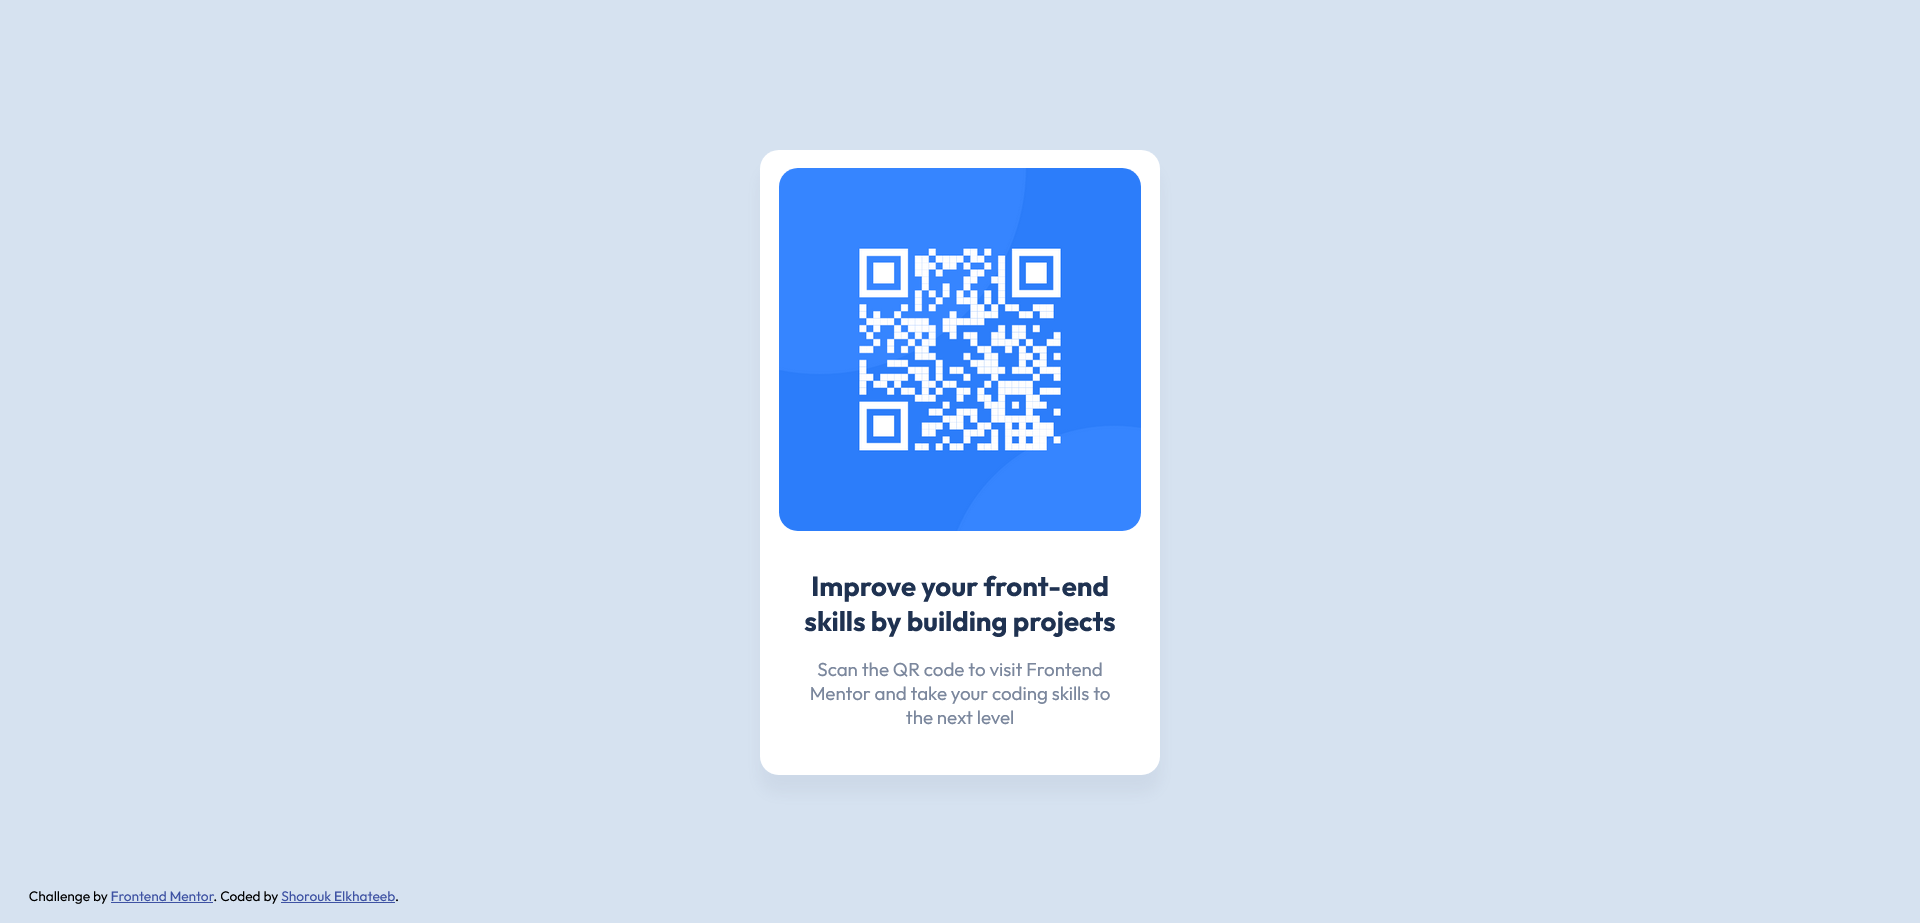
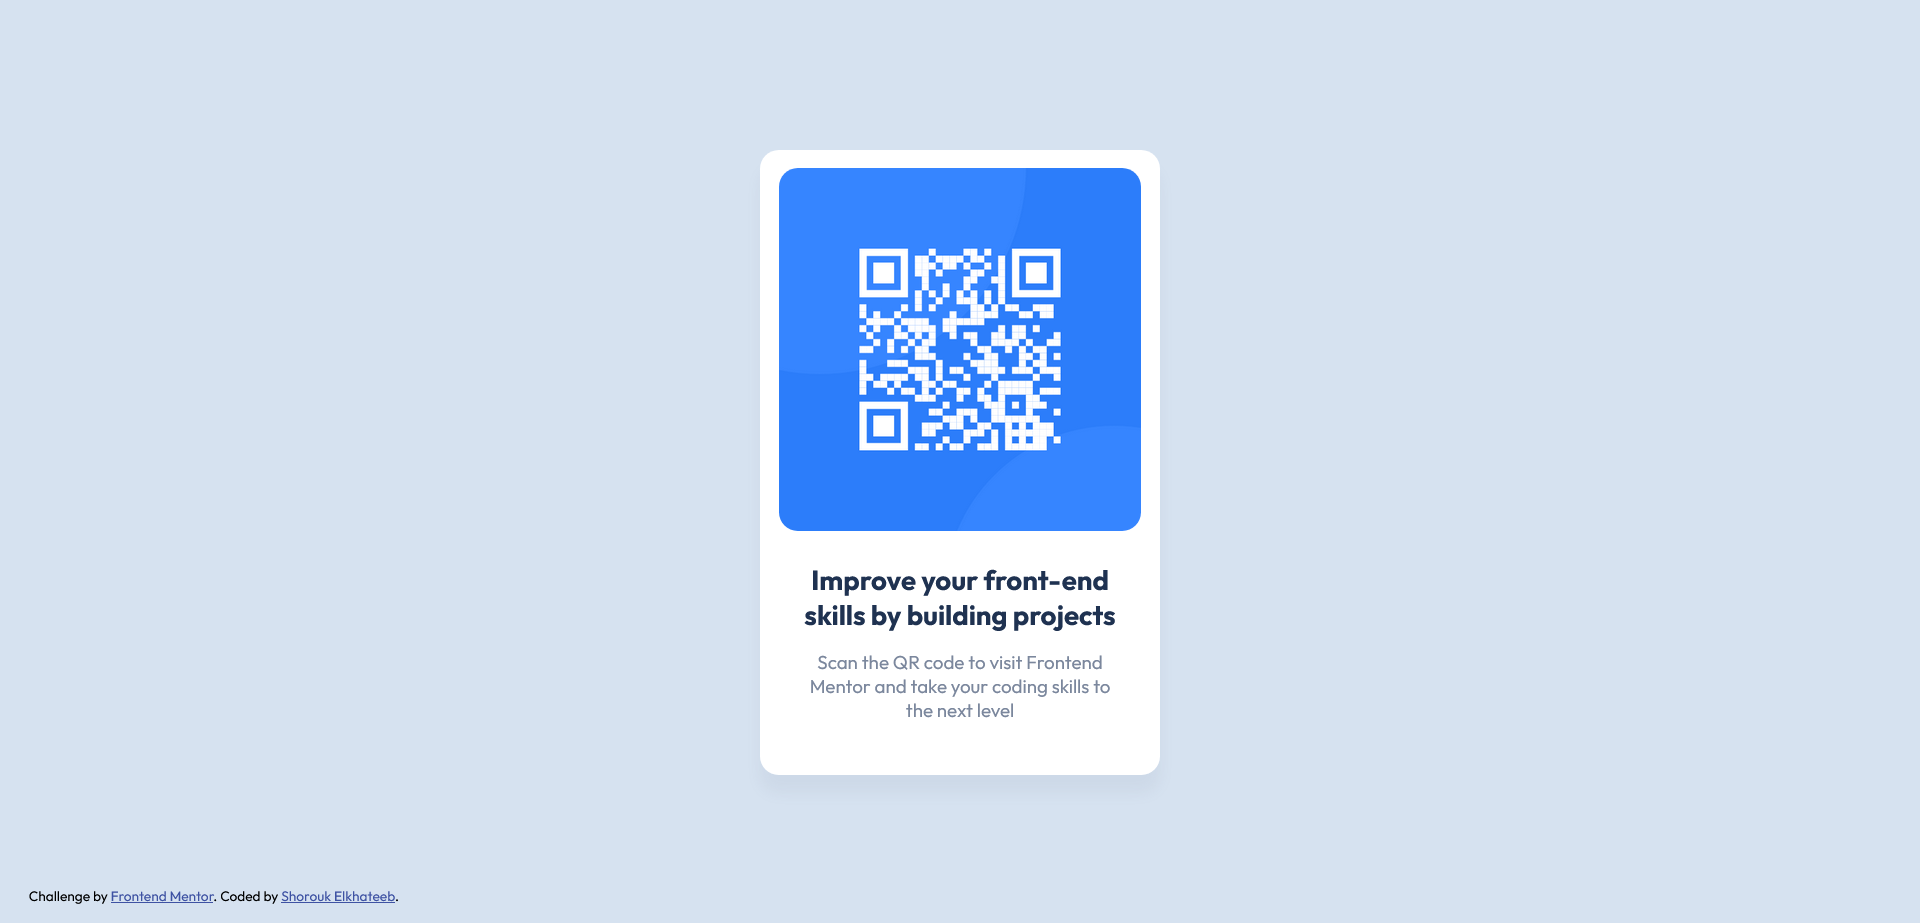
Decrease margin between caption and qr

Changed region(s): [[0.4062, 0.6067, 0.5938, 0.7887]]

diff --git a/css/style.css b/css/style.css
@@ -64,7 +64,7 @@ body {
 .card .caption {
     width: 260px;
     text-align: center;
-    margin: 15px;
+    margin: 10px;
 }
 
 .card .title {
